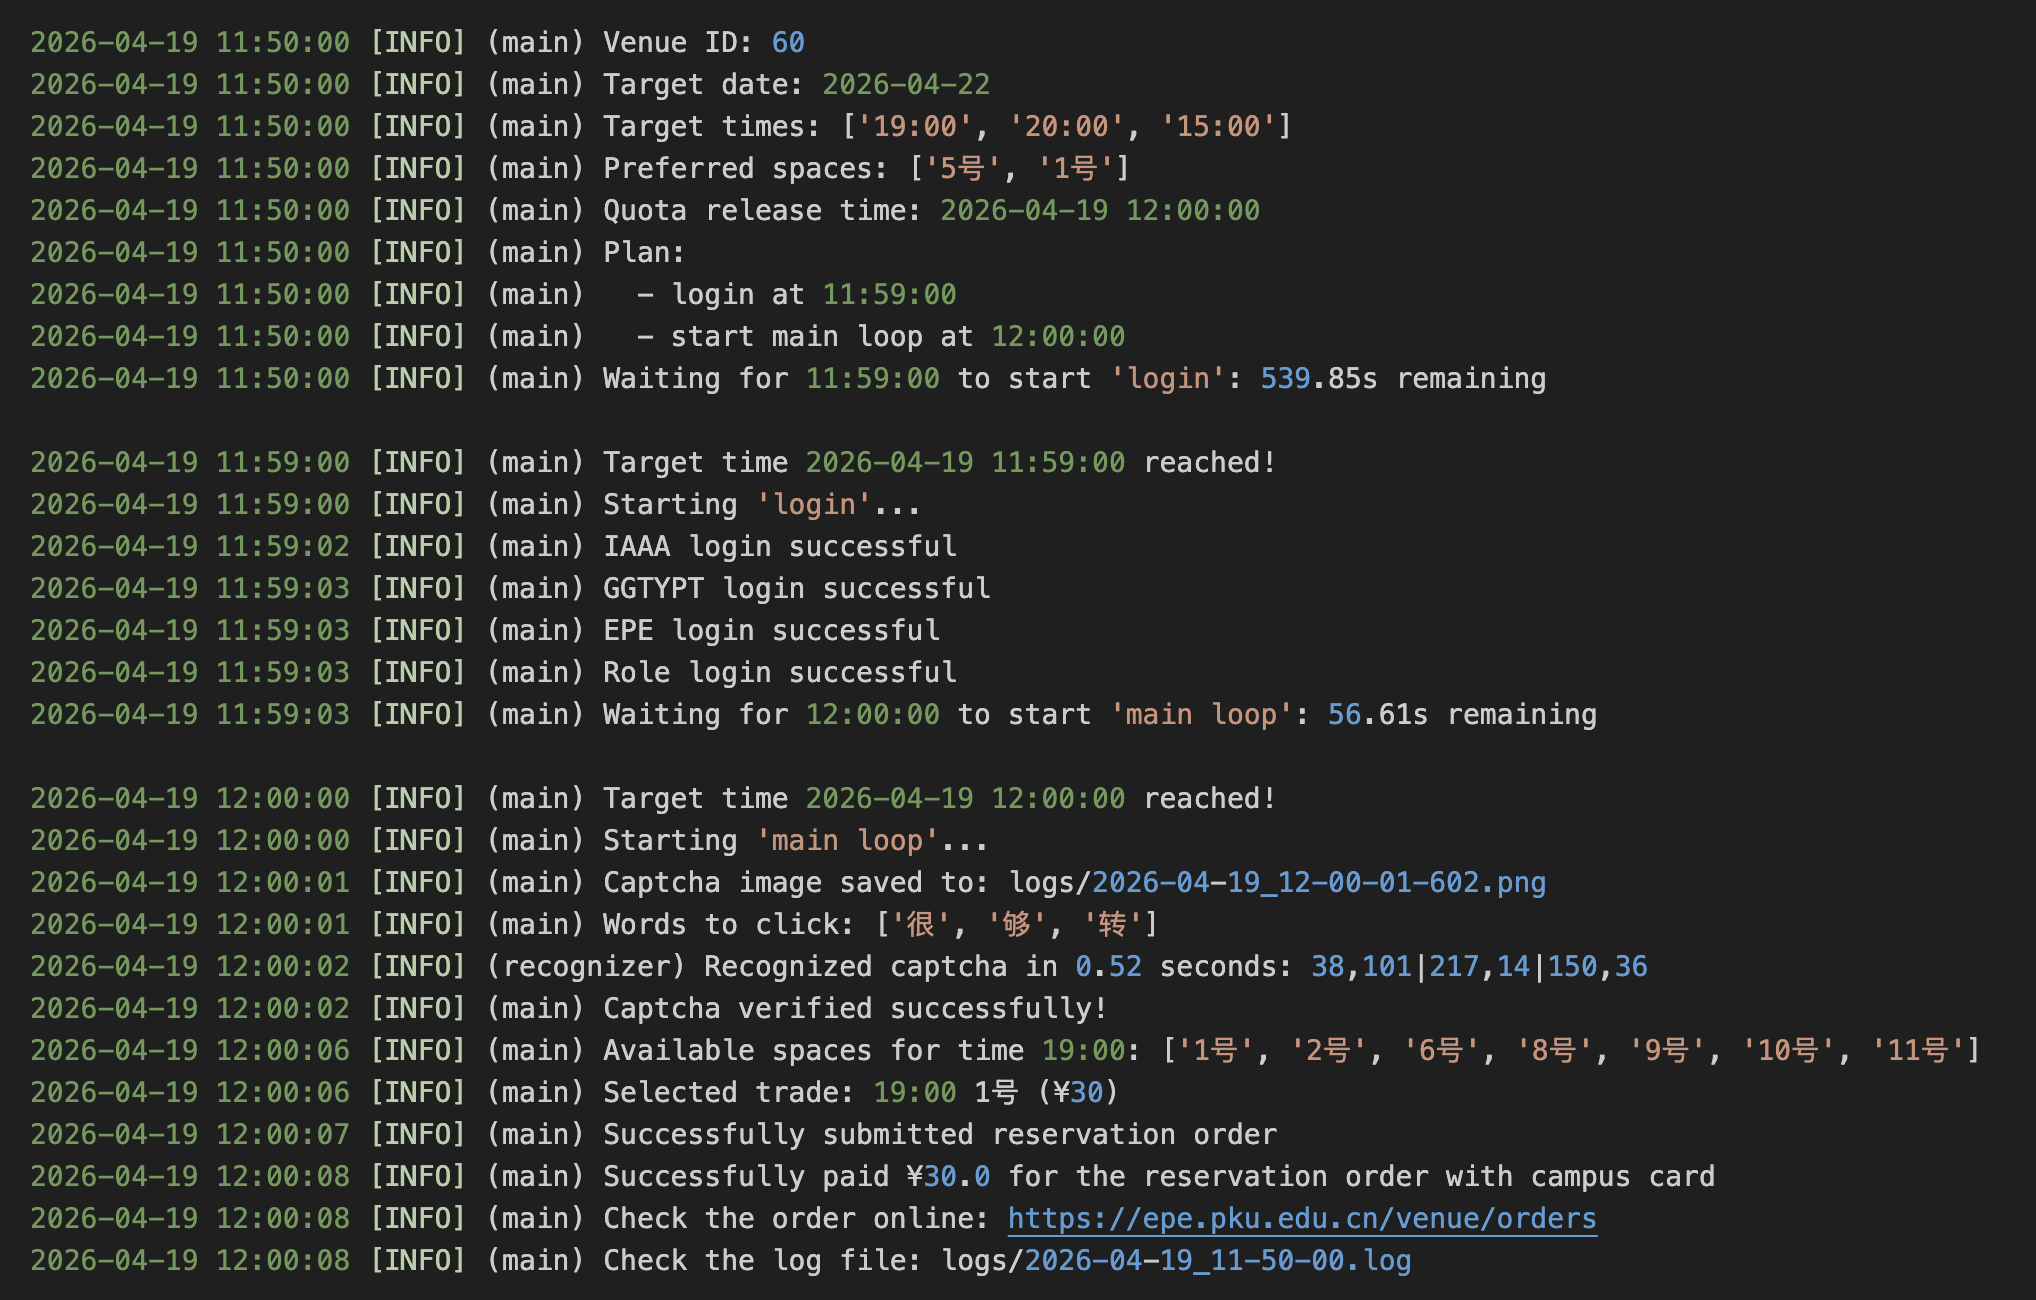
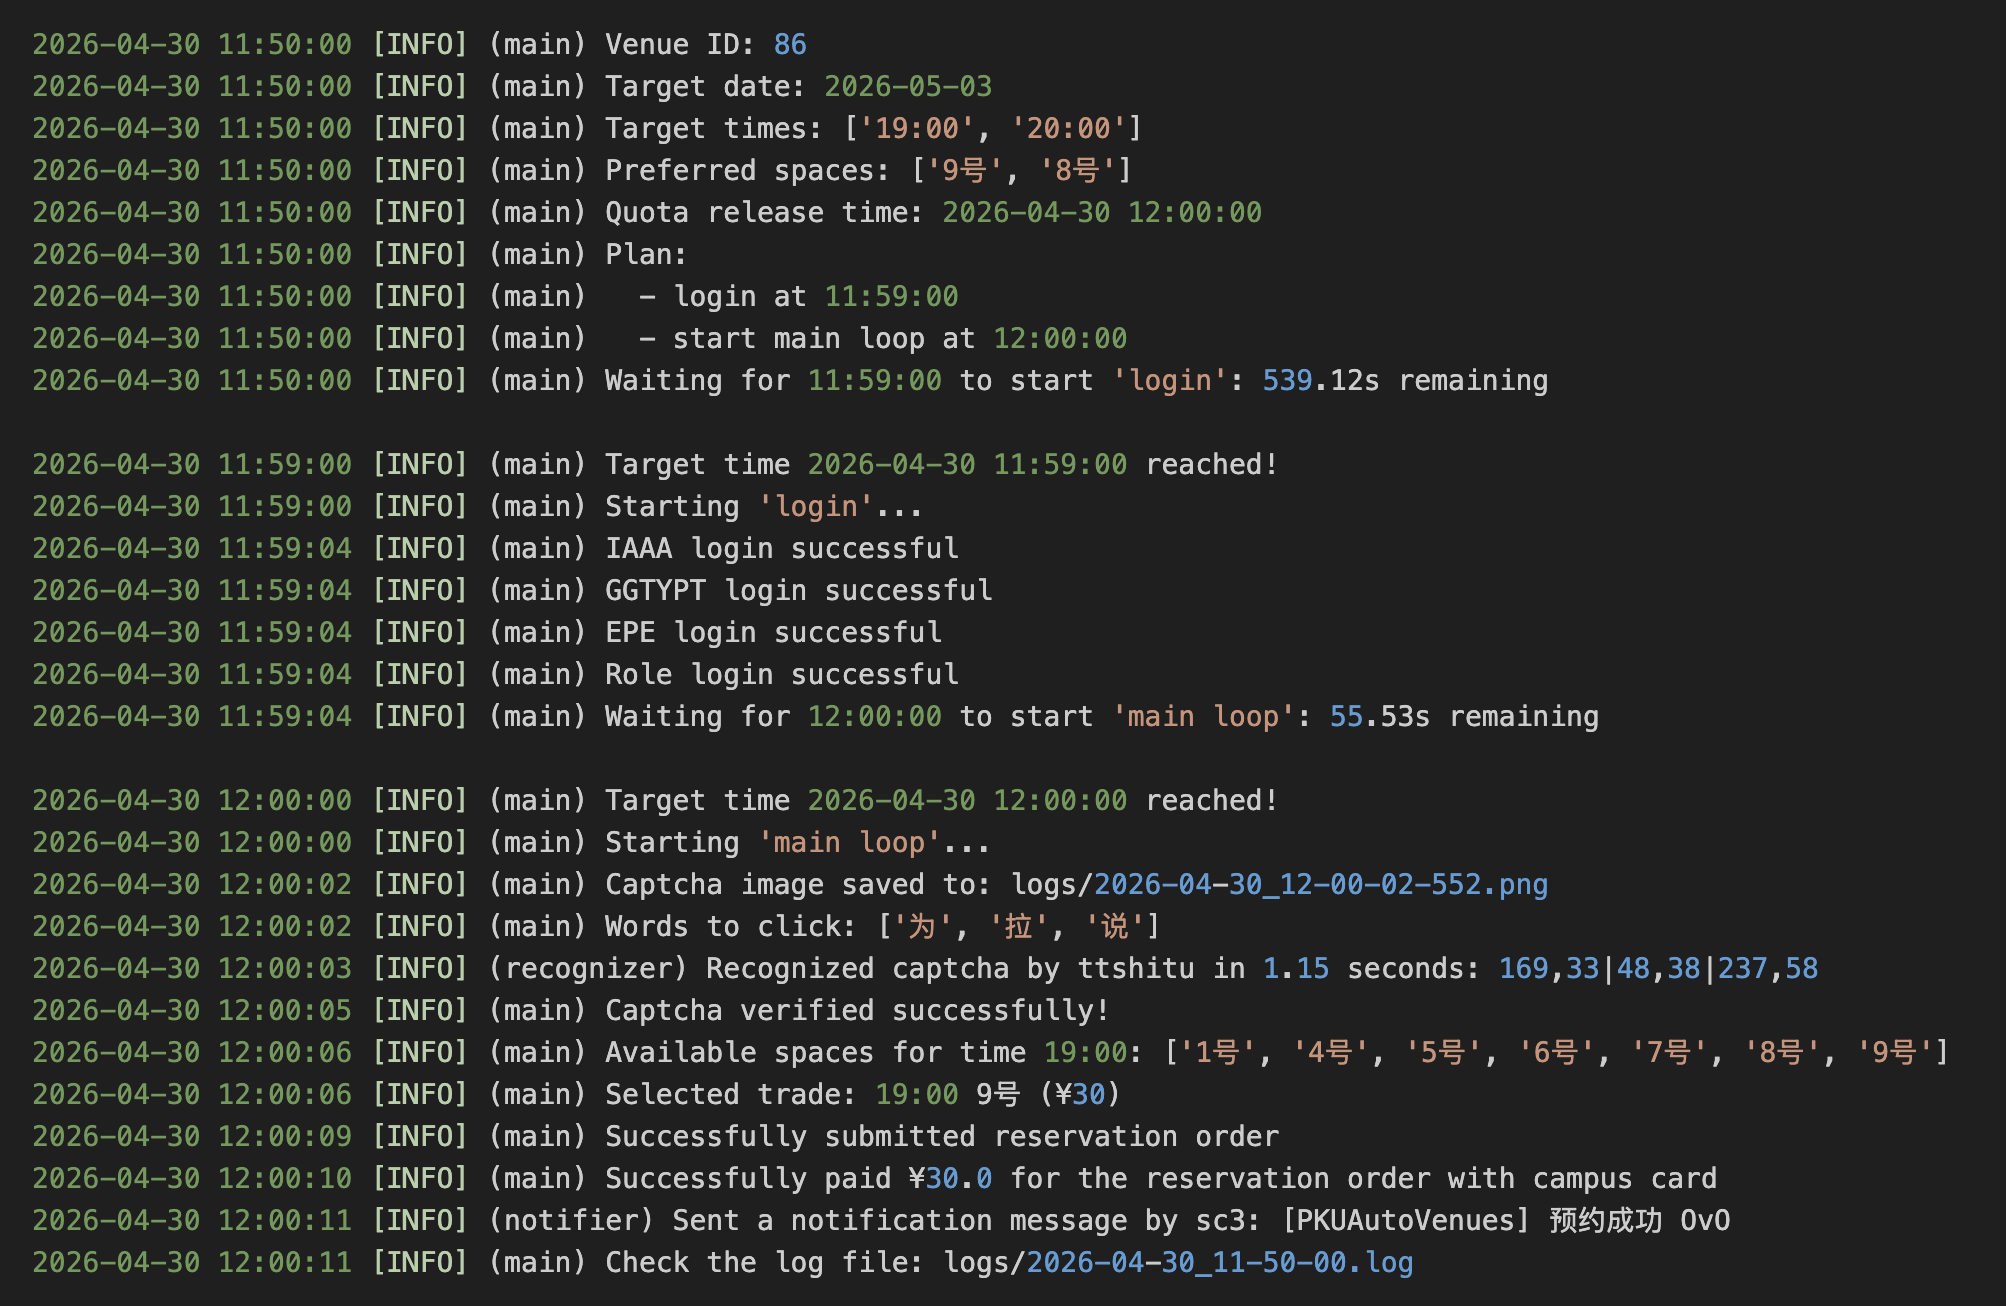
feat: support notification via multiple channels

diff --git a/utils/notify.py b/utils/notify.py
@@ -1,0 +1,159 @@
+import re
+import smtplib
+from email.mime.text import MIMEText
+from email.utils import formataddr
+
+from .client import Client
+from .logger import Logger
+from .config import CONFIG
+
+
+class Notifier:
+
+    def __init__(self):
+        self._method = CONFIG.get("notify", "method", fallback="")
+        self._client = Client(self._method)
+        self._logger = Logger("notifier")
+
+    def notify_message(self, title: str, content: str) -> bool:
+        """成功返回 True，失败返回 False，never raise Exception，不打断主流程"""
+
+        if self._method == "none":
+            self._logger.warning(
+                f"Notification method is 'none', skipping notification: {title}"
+            )
+            self._logger.breathe()
+            return True
+
+        try:
+            if self._method == "email":
+                self._email(title, content)
+            elif self._method == "sc3":
+                self._sc3(title, content)
+            elif self._method == "sct":
+                self._sct(title, content)
+            elif self._method == "bark":
+                self._bark(title, content)
+            else:
+                raise Exception(
+                    "Invalid notification method, must be 'email', 'sc3', 'sct', 'bark' or 'none'"
+                )
+
+            self._logger.info(f"Sent a notification message by {self._method}: {title}")
+            self._logger.breathe()
+            return True
+
+        except Exception as e:
+            self._logger.error(
+                f"Failed to send the notification message by {self._method}: ({e.__class__.__name__}) {e}"
+            )
+            self._logger.breathe()
+            return False
+
+    """
+    以下各种通知方法，通知失败会 raise Exception
+    """
+
+    def _email(self, title: str, content: str):
+        email = CONFIG["notify:email"]["email"]
+        password = CONFIG["notify:email"]["password"]
+
+        domain = email.split("@")[-1]
+        if domain == "stu.pku.edu.cn":
+            host = "smtphz.qiye.163.com"
+        elif domain in {"pku.edu.cn", "qq.com", "163.com", "126.com"}:
+            host = f"smtp.{domain}"
+        else:
+            raise Exception(
+                "Unsupported email address, must end with '@stu.pku.edu.cn', '@pku.edu.cn', '@qq.com', '@163.com' or '@126.com'"
+            )
+
+        message = MIMEText(content, "plain")
+        message["From"] = formataddr(("PKUAutoVenues", email))
+        message["To"] = email
+        message["Subject"] = title
+
+        try:
+            server = smtplib.SMTP_SSL(host, port=465)
+            server.login(email, password)
+            server.sendmail(email, email, message.as_string())
+            server.quit()
+        except Exception as e:
+            raise Exception(
+                f"Maybe the email address or password (authorization code) is incorrect: ({e.__class__.__name__}) {e}"
+            )
+
+    def _sc3(self, title: str, content: str):
+        sendkey = CONFIG["notify:sc3"]["sendkey"]
+
+        match = re.match(r"^sctp(\d+)t", sendkey)
+        if match is None:
+            raise Exception(
+                "Invalid SC3 sendkey, must follow a format like 'sctp<number>t...'"
+            )
+        uid = match.group(1)
+
+        response = self._client.post(
+            f"https://{uid}.push.ft07.com/send/{sendkey}.send",
+            data={
+                "title": title,
+                "desp": content.replace("\n", "\n\n"),  # Markdown
+                "short": content,  # 推送消息卡片的内容，这里直接提供原始消息内容，显示时会截取前若干个字符作为预览
+                "tags": "PKUAutoVenues",
+            },
+            timeout=60.0,
+        )
+
+        response_data = response.json()
+
+        if response_data["code"] != 0:
+            raise Exception(
+                f"Maybe the SC3 sendkey is incorrect: ({response_data['code']}) {response_data.get('error')}"
+            )
+
+    def _sct(self, title: str, content: str):
+        sendkey = CONFIG["notify:sct"]["sendkey"]
+
+        response = self._client.post(
+            f"https://sctapi.ftqq.com/{sendkey}.send",
+            data={
+                "title": title,
+                "desp": content.replace("\n", "\n\n"),  # Markdown
+                "noip": "1",  # 隐藏调用 IP
+                "channel": "9",  # 指定消息通道为方糖服务号
+            },
+            timeout=60.0,
+        )
+
+        response_data = response.json()
+
+        if response_data["code"] != 0:
+            if response_data["code"] == 40001 and response_data.get("scode") == 471:
+                raise Exception(
+                    f"SCT exceeded daily sending frequency limit: {response_data.get('message')}"
+                )
+            else:
+                raise Exception(
+                    f"Maybe the SCT sendkey is incorrect: ({response_data['code']}) {response_data.get('message')}"
+                )
+
+    def _bark(self, title: str, content: str):
+        sendkey = CONFIG["notify:bark"]["sendkey"]
+
+        response = self._client.post(
+            f"https://api.day.app/{sendkey}",
+            data={
+                "title": title,
+                "body": content,
+                "group": "PKUAutoVenues",
+                "badge": "1",  # 角标提醒
+            },
+            timeout=60.0,
+        )
+
+        response_data = response.json()
+
+        if response_data["code"] != 200:
+            raise Exception(
+                f"Maybe the Bark sendkey is incorrect: ({response_data['code']}) {response_data['message']}"
+            )

diff --git a/main.py b/main.py
@@ -15,6 +15,7 @@ from utils.encrypt import (
     generate_order_pin,
 )
 from utils.recognize import Recognizer
+from utils.notify import Notifier
 from utils.time import get_next_weekday, get_release_time, wait_until
 from utils.config import LOGS_DIR, LOG_FILE, CONFIG
 
@@ -28,6 +29,7 @@ def main(
 
     client = EpeClient("epe")
     recognizer = Recognizer()
+    notifier = Notifier()
 
     logger.info(f"Venue ID: {venue}")
     logger.info(f"Target date: {target_date}")
@@ -314,8 +316,11 @@ def main(
                             list(available_space_to_trade.values())
                         )
 
+                    selected_time = id_to_time[target_trade["timeId"]]
+                    selected_space = target_trade["spaceName"]
+
                     logger.info(
-                        f"Selected trade: {id_to_time[target_trade['timeId']]} {target_trade['spaceName']} (¥{target_trade['orderFee']})"
+                        f"Selected trade: {selected_time} {selected_space} (¥{target_trade['orderFee']})"
                     )
                     logger.breathe()
                     break
@@ -355,6 +360,9 @@ def main(
 
                 if trade_id and trade_no:
                     logger.info(f"Successfully submitted reservation order")
+                    logger.info(
+                        f"Check the order online: https://epe.pku.edu.cn/venue/orders"
+                    )
                     logger.breathe()
                     break
 
@@ -385,23 +393,31 @@ def main(
             pay_fee = pay_data.get("payFee")
             if not pay_fee:
                 raise Exception(f"payFee not found in pay response")
-        except Exception as e:
-            raise Exception(
-                f"Please pay for the reservation order manually in 10 minutes. Error: {e}"
+
+            logger.info(
+                f"Successfully paid ¥{pay_fee} for the reservation order with campus card"
+            )
+            logger.breathe()
+            notifier.notify_message(
+                "[PKUAutoVenues] 预约成功 OvO",
+                f"已预约 {target_date} {selected_time}（{selected_space}场地），并成功用校园卡支付 {pay_fee} 元",
             )
 
-        logger.info(
-            f"Successfully paid ¥{pay_fee} for the reservation order with campus card"
-        )
-        logger.info(f"Check the order online: https://epe.pku.edu.cn/venue/orders")
-        logger.info(f"Check the log file: {LOG_FILE}")
-        logger.breathe()
-        # notify
+        except Exception as e:
+            logger.error(f"Failed to pay for the reservation order: {e}")
+            logger.breathe()
+            notifier.notify_message(
+                "[PKUAutoVenues] 需要手动付款 >_<",
+                f"已成功预约 {target_date} {selected_time}（{selected_space}场地），请在十分钟内手动完成支付 (Error: {e})",
+            )
 
     except Exception as e:
         logger.error(str(e))
-        # notify
-        exit(1)
+        logger.breathe()
+        notifier.notify_message("[PKUAutoVenues] 预约失败 QAQ", str(e))
+
+    finally:
+        logger.info(f"Check the log file: {LOG_FILE}")
 
 
 if __name__ == "__main__":

diff --git a/utils/recognize.py b/utils/recognize.py
@@ -9,7 +9,7 @@ from .config import CONFIG
 class Recognizer:
 
     def __init__(self):
-        self._method = CONFIG["recognize"]["method"]
+        self._method = CONFIG.get("recognize", "method", fallback="")
         self._client = Client(self._method)
         self._logger = Logger("recognizer")
 
@@ -23,10 +23,14 @@ class Recognizer:
         elif self._method == "chaojiying":
             result = self._chaojiying(image_base64, words)
         else:
-            raise ValueError("Invalid recognition method")
+            raise Exception(
+                "Invalid recognition method, must be 'ttshitu' or 'chaojiying'"
+            )
 
         elapsed = time.perf_counter() - start
-        self._logger.info(f"Recognized captcha in {elapsed:.2f} seconds: {result}")
+        self._logger.info(
+            f"Recognized captcha by {self._method} in {elapsed:.2f} seconds: {result}"
+        )
         self._logger.breathe()
 
         # "234,47|168,90|101,63" -> [(234, 47), (168, 90), (101, 63)]

diff --git a/README.md b/README.md
@@ -3,14 +3,16 @@
 ```bash
 echo 'cd ~/PKUAutoVenues-2026 && \
       uv run main.py \
-        --venue qdb \
-        --date 2026-04-22 \
-        --times 19:00 20:00 15:00 \
-        --spaces 5 1' \
-| at 11:50 2026-04-19
+        --venue 五四 \
+        --date 2026-05-03 \
+        --times 19:00 20:00 \
+        --spaces 9 8' \
+| at 11:50 2026-04-30
 ```
 
 <img src="assets/preview.png" alt="Preview">
+
+<img src="assets/notification.png" alt="Notification" width="500">
 
 ## 致谢
 
@@ -18,7 +20,7 @@ echo 'cd ~/PKUAutoVenues-2026 && \
 
 - [qqworld-tutu/PKUautoBookingVenues-fixed-by-cq-tutu](https://github.com/qqworld-tutu/PKUautoBookingVenues-fixed-by-cq-tutu)
 
-## 配置环境
+## 如何使用（<a href="https://www.kimi.com/_prefill_chat?prefill_prompt=请阅读一下 https://github.com/goudanZ1/PKUAutoVenues-2026 这个项目，我应该如何使用它？&send_immediately=true&force_search=true">Chat with Kimi</a>）
 
 1. 安装 [uv](https://docs.astral.sh/uv/)
 
@@ -33,14 +35,14 @@ echo 'cd ~/PKUAutoVenues-2026 && \
    cd PKUAutoVenues-2026
    ```
 
-3. 修改配置文件
+3. 填写配置文件，详见下面的 [验证码识别](#验证码识别) 和 [消息通知](#消息通知) 部分
 
    ```bash
    cp config.sample.ini config.ini
    vim config.ini
    ```
 
-4. 运行项目
+4. 运行项目，详见下面的 [运行项目](#运行项目) 和 [定时运行](#定时运行) 部分
 
    ```bash
    uv run main.py -h
@@ -48,9 +50,36 @@ echo 'cd ~/PKUAutoVenues-2026 && \
 
 ## 验证码识别
 
-本项目推荐使用 [TT 识图](http://www.ttshitu.com/) 进行验证码识别，一次识别大概耗时 0.5 秒（不走代理），价格为 0.016 元，充值 1 元大约可以识别 62 次。你需要在网站上注册账号（如果已有账号且很久没用的话需要在网站上解锁账号），并在 `config.ini` 的 `[recognize:ttshitu]` 部分填写账号的用户名和密码。
+本项目推荐使用 [TT 识图](http://www.ttshitu.com/) 进行验证码识别，识别一次价格为 0.016 元，充值 1 元大约可以识别 62 次。你需要在网站上注册账号（如果已有账号且很久没用的话需要在网站上解锁账号），并在 `config.ini` 的 `[recognize:ttshitu]` 部分填写账号的用户名和密码。
 
-（如果你已经在超级鹰里充了很多钱，）你也可以使用 [超级鹰](https://www.chaojiying.com/) 平台进行验证码识别，你需要在 `config.ini` 的 `[recognize]` 部分将 `method` 的值改为 `chaojiying`，并在 `[recognize:chaojiying]` 部分填写账号的用户名、密码、软件 ID。超级鹰一次识别大概耗时 0.4 秒（不走代理），价格为 0.028 元，一次至少充 19 元（看起来比 [去年](https://github.com/qqworld-tutu/PKUautoBookingVenues-fixed-by-cq-tutu#api) 更坑了）。
+（如果你已经在超级鹰里充了很多钱，）你也可以选择使用 [超级鹰](https://www.chaojiying.com/) 平台进行验证码识别，识别一次价格为 0.028 元，一次至少充 19 元（看起来比 [去年](https://github.com/qqworld-tutu/PKUautoBookingVenues-fixed-by-cq-tutu#api) 更坑了）。你需要在 `config.ini` 的 `[recognize]` 部分将 `method` 的值改为 `chaojiying`，并在 `[recognize:chaojiying]` 部分填写账号的用户名、密码、软件 ID。
+
+非高峰时段，TT 识图的响应耗时约为 0.5 秒，超级鹰约为 0.4 秒；高峰时段（12:00 前后），TT 识图的响应耗时约为 1~1.5 秒，超级鹰尚未充分测试。
+
+## 消息通知
+
+可以选择以下通知方式中的一种，在预约流程完成后会自动向你发送结果。你需要在 `config.ini` 中修改 `[notify]` 部分 `method` 的值，并在对应的 `[notify:{method}]` 部分填写该通知方式所需的配置。（你也可以保留 `method = none`，表示不启用通知功能，这样下方配置都无需修改，可以直接跳到 [运行项目](#运行项目) 部分。）
+
+### 1. Email：给自己发邮件
+
+基于 SMTP 协议，用自己的邮箱账号给自己发送邮件，手机上的邮箱客户端（如网易邮箱大师等）就可以很方便地收到通知。目前仅适配了 `@stu.pku.edu.cn`、`@pku.edu.cn`、`@qq.com`、`@163.com`、`@126.com` 邮箱。
+
+以 `@stu.pku.edu.cn` 邮箱为例（其他邮箱类似），你需要在浏览器中登录 [网页版邮箱](https://mail.stu.pku.edu.cn/)，进入 “设置” - **“客户端设置”** 页面，点击 **“生成客户端授权密码”**，自行设置合适的客户端名称（如 “PKUAutoVenues”）和到期时间，将邮箱地址和 **生成的授权码**（而不是原始密码）填到 `config.ini` 的 `[notify:email]` 部分。注意，为了通过 Python 发送邮件，需要 **允许非官方客户端使用 SMTP 服务**，即页面中 “非网易官方客户端” 的权限至少要有 “IMAP / SMTP 协议” 和 “POP / SMTP 协议” 其中一项。
+
+> 下面三种方式都类似于 “向注册了特定 SendKey 的客户端发通知”，小标题说明了 “客户端” 的存在形式：
+
+### 2. Server酱<sup>3</sup>：手机 APP（主流手机系统均可安装）
+
+1. 打开 [Server酱<sup>3</sup> 官网](https://sc3.ft07.com/)，使用微信扫码登录，在 [SendKey 页面](https://sc3.ft07.com/sendkey) 复制 SendKey（以 `sctp` 开头的字符串），填到 `config.ini` 的 `[notify:sc3]` 部分
+2. 访问 [下载页面](https://sc3.ft07.com/client)，在手机上安装 Server酱 APP，启动 APP 后填入 SendKey 或扫描 [SendKey 页面](https://sc3.ft07.com/sendkey) 上的二维码以登录
+
+### 3. Server酱<sup>Turbo</sup>：微信服务号
+
+打开 [Server酱<sup>Turbo</sup> 官网](https://sct.ftqq.com/)，使用微信扫码登录（关注方糖服务号），在 [Key&API 页面](https://sct.ftqq.com/sendkey) 复制 SendKey（以 `SCT` 开头的字符串），填到 `config.ini` 的 `[notify:sct]` 部分
+
+### 4. Bark：手机 APP（仅 iOS）
+
+在手机 App Store 下载 [Bark](https://apps.apple.com/cn/app/id1403753865)，打开 APP 首页并复制任意一个测试 URL，`https://api.day.app/` 后面的一串字符串就是你的推送 Key，将它填到 `config.ini` 的 `[notify:bark]` 部分
 
 ## 运行项目
 
@@ -155,6 +184,5 @@ echo 'cd ~/PKUAutoVenues-2026 && \
 
 ## TODO
 
-- notify
 - preflight
 - helper
